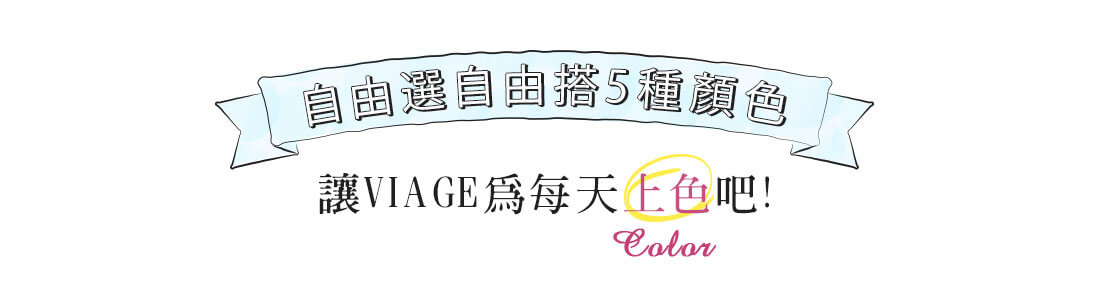
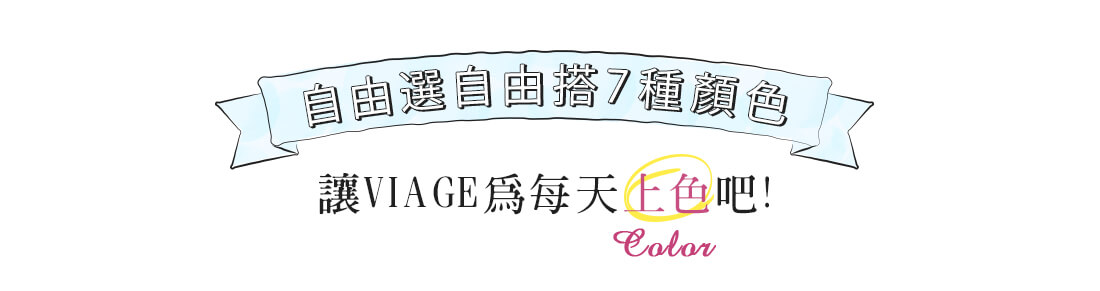
20200618_change color_h

Changed region(s): [[0.34, 0.2165, 0.7418, 0.433]]

diff --git a/index.html b/index.html
@@ -444,7 +444,7 @@
                 <!-- 14_color -->
                 <section class="14_color">
                     <div class="container PC">
-                        <img data-src="images/14_color_h.jpg" class="d-flex mx-auto lozad" width=100% alt="">
+                        <img data-src="images/14_color_AB.jpg" class="d-flex mx-auto lozad" width=100% alt="">
                         <div id="color_carousel_1" class="carousel slide" data-ride="carousel">
                             <ol class="carousel-indicators">
                                 <li data-target="#color_carousel_1" data-slide-to="0" class="active"></li>
@@ -488,7 +488,7 @@
                     </div>
 
                     <div class="container_fluid mobile">
-                        <img data-src="images/SMP/14_color_h_SMP.jpg" class="d-flex mx-auto lozad" width=100% alt="">
+                        <img data-src="images/SMP/14_color_AB_SMP.jpg" class="d-flex mx-auto lozad" width=100% alt="">
                         <div id="color_carousel_2" class="carousel slide" data-ride="carousel">
                             <ol class="carousel-indicators">
                                 <li data-target="#color_carousel_2" data-slide-to="0" class="active"></li>
